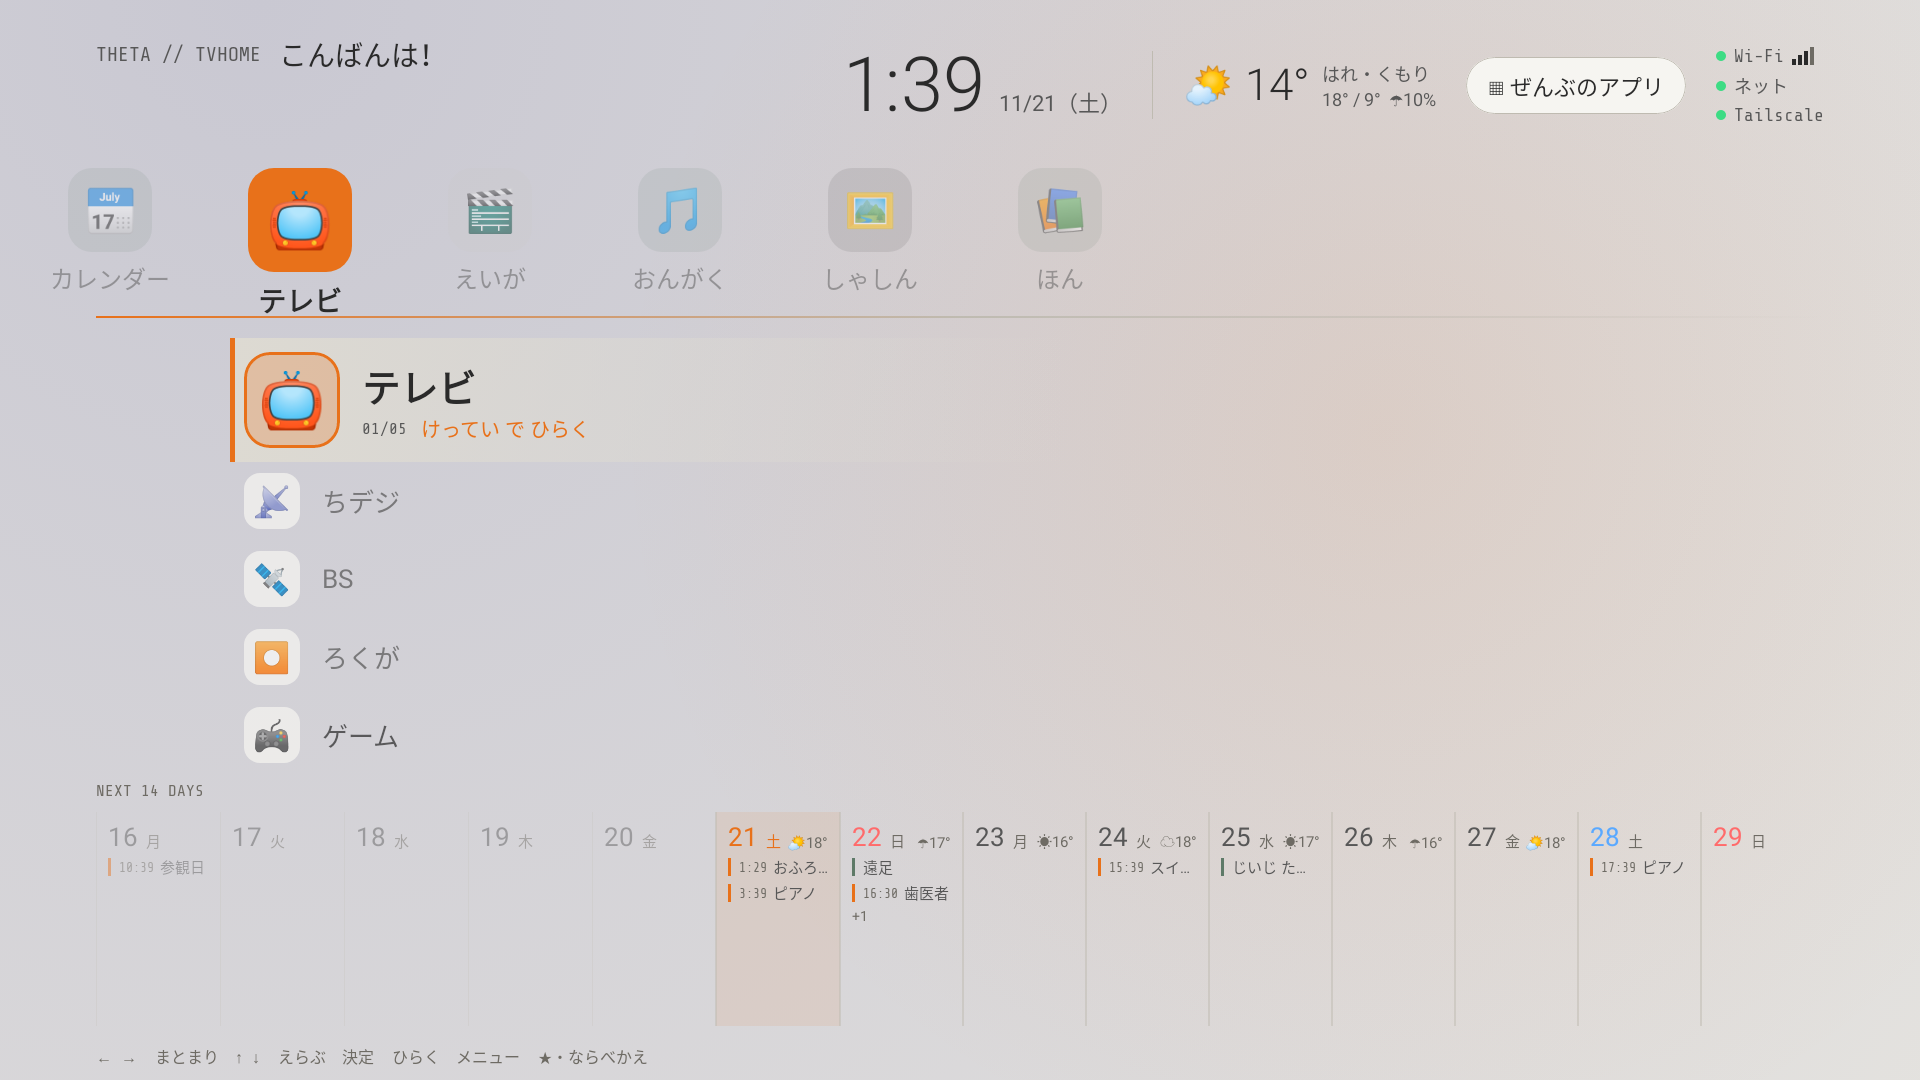
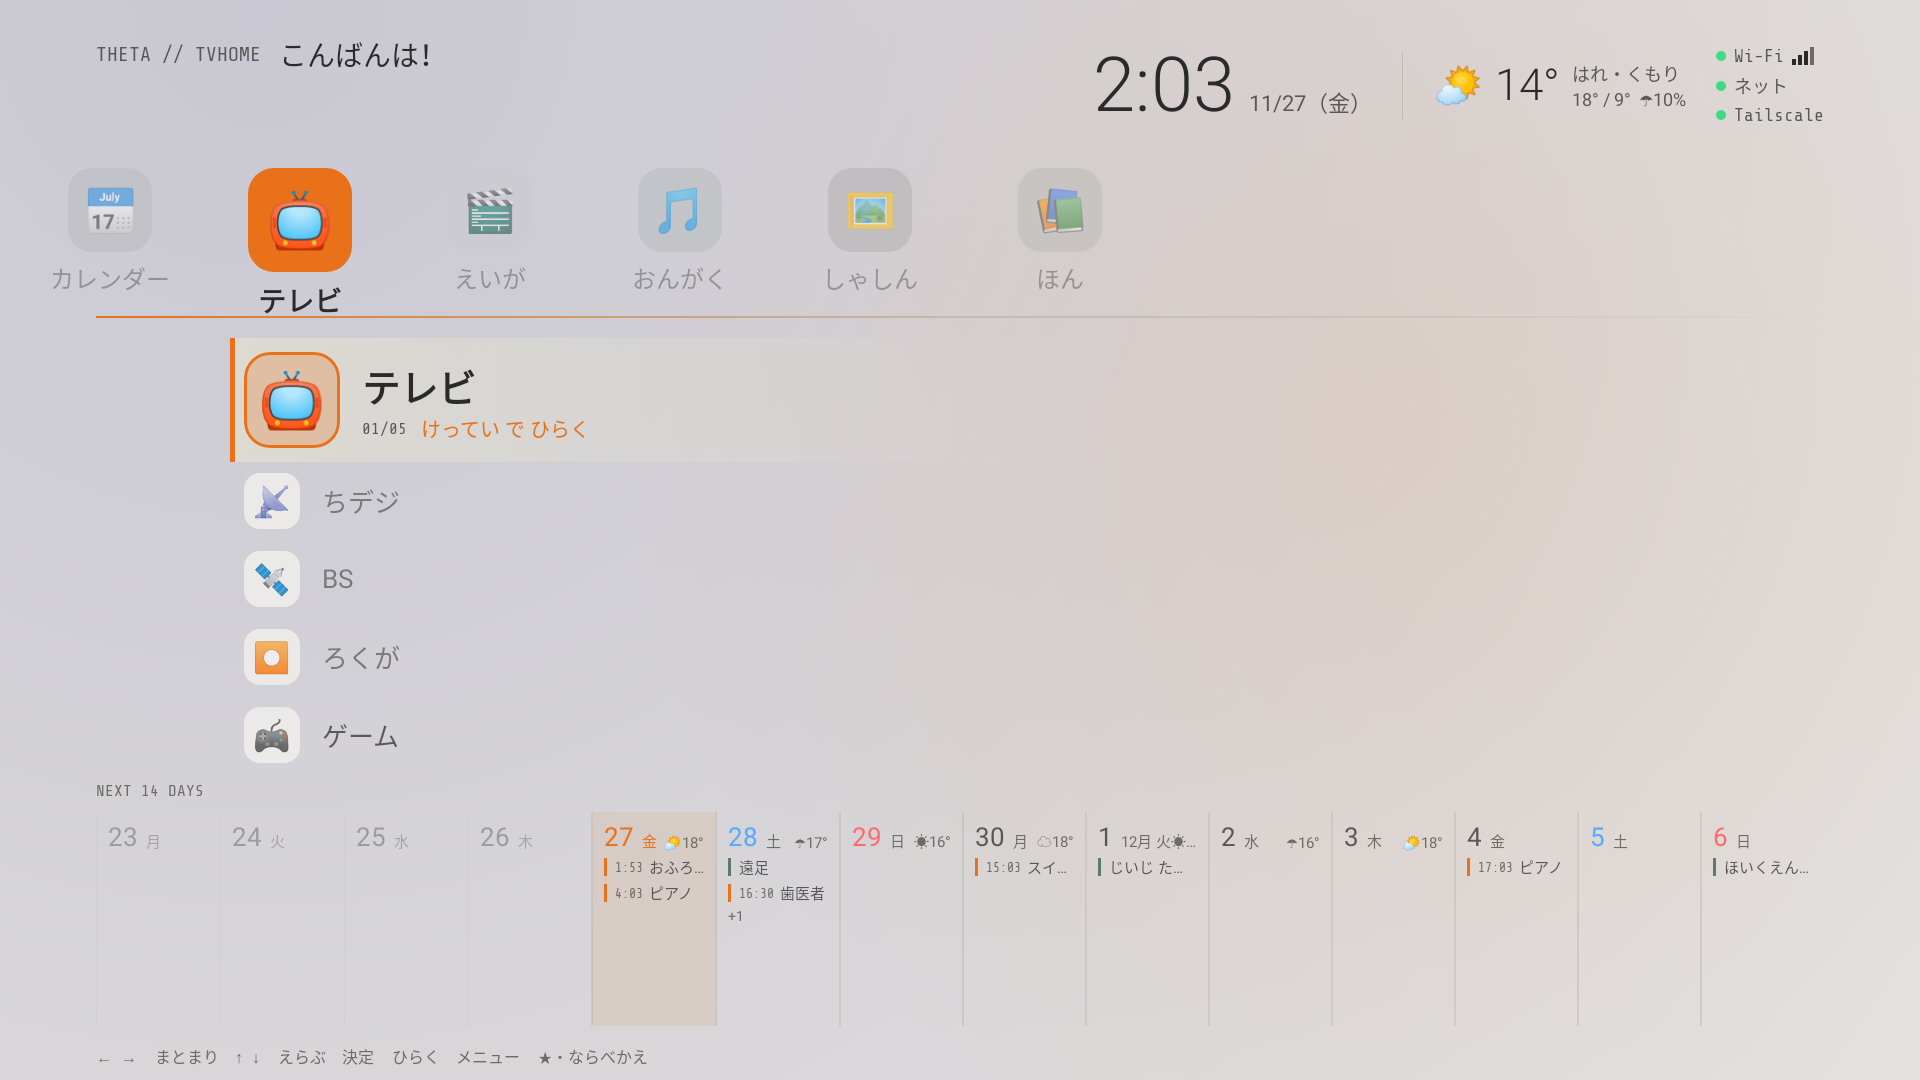
0.9.1：横の移動はクロスバーだけ（右上のぜんぶのアプリ・NAS の上のボタン列をやめ、アプリの下・メニューボタンへ）
Claude-Session: https://claude.ai/code/session_012DXkbyha4qRNRU1wCiPjQm

diff --git a/app/src/main/java/app/thetahatch/tvhome/ui/CrossBar.kt b/app/src/main/java/app/thetahatch/tvhome/ui/CrossBar.kt
@@ -99,9 +99,9 @@ private val DOW = listOf("月", "火", "水", "木", "金", "土", "日")
  * クロスバー（はじめの形）：
  * - 上端に横の帯（まとまり：カレンダー・テレビ・アプリ・せってい。左右はループ）、選んだまとまりの中身はその下に縦
  * - 下にさりげなく 2 週間の帯（月曜はじまり・てんき・よてい）。カレンダーを選ぶと 4 週の表に広がり、↓ で日にちを選べる
- * - 左上：いま再生中のもの（無ければ名前とあいさつ）。右上：時計・てんき・ぜんぶのアプリ・ネット
+ * - 左上：いま再生中のもの（無ければ名前とあいさつ）。右上：時計・てんき・ネット（見るだけ。フォーカスは移らない）
  * - 操作しないと 5 秒で薄く、25 秒でメニューが消える（いちばん上で「戻る」でもすぐ消える）。なにかキーで戻る（そのキーは出すだけ）
- * 操作：←→ まとまり、↑↓ えらぶ、決定 ひらく、長押し・メニュー 操作。中身のいちばん上で ↑ → 右上の「ぜんぶのアプリ」
+ * 操作：←→ まとまり、↑↓ えらぶ、決定 ひらく、長押し・メニュー 操作。ぜんぶのアプリは「アプリ」のいちばん下
  */
 @Composable
 fun CrossBarLayout(app: TvHomeApp, firstFocus: FocusRequester, go: (String) -> Unit, menu: (TileMenu) -> Unit, guarded: (() -> Unit) -> Unit) {
@@ -124,13 +124,12 @@ fun CrossBarLayout(app: TvHomeApp, firstFocus: FocusRequester, go: (String) -> U
         buildCategories(app, apps, entries, updates, go, menu, guarded, withAll = false,
             nas = mapOf(Kind.VIDEO to sv, Kind.MUSIC to sm, Kind.PHOTO to sp, Kind.BOOK to sb))
     }
-    val cats = remember(base) { listOf(Category("cal", "カレンダー", "📅", emptyList())) + base.map { if (it.key == "fav") it.copy(label = "アプリ", icon = "⭐") else it } }
+    val cats = remember(base) { listOf(Category("cal", "カレンダー", "📅", emptyList())) + base.map { if (it.key == "fav") it.copy(label = "アプリ", icon = "⭐", items = it.items + Item("all-apps", "ぜんぶのアプリ", "▦", sub = "ホームに だす アプリを えらぶ", onClick = { guarded { go("apps") } })) else it } }
     val colors = listOf(p.accent2, p.accent, p.accent3, p.widget, p.launch)
 
     var cat by remember { mutableIntStateOf(1) }
     val pos = remember { mutableStateMapOf<String, Int>() }
     var inGrid by remember { mutableStateOf(false) }
-    var top by remember { mutableStateOf(false) } // 右上の「ぜんぶのアプリ」を選んでいる
     var longPressed by remember { mutableStateOf(false) }
     var lastKey by remember { mutableLongStateOf(System.currentTimeMillis()) }
     var idle by remember { mutableIntStateOf(0) }
@@ -163,7 +162,7 @@ fun CrossBarLayout(app: TvHomeApp, firstFocus: FocusRequester, go: (String) -> U
     fun move(dc: Int) {
         val n = cats.size
         cat = ((cat + dc) % n + n) % n
-        inGrid = false; top = false; weeks = 0; sel = todayIdx
+        inGrid = false; weeks = 0; sel = todayIdx
     }
 
     Box(
@@ -191,12 +190,6 @@ fun CrossBarLayout(app: TvHomeApp, firstFocus: FocusRequester, go: (String) -> U
                         }
                         true
                     }
-                    // 右上の「ぜんぶのアプリ」
-                    top -> {
-                        if (center && e.type == KeyEventType.KeyUp) { guarded { go("apps") }; true }
-                        else if (e.type == KeyEventType.KeyDown && (e.key == Key.DirectionDown || back)) { top = false; true }
-                        else e.type == KeyEventType.KeyDown && e.key != Key.Back
-                    }
                     e.type == KeyEventType.KeyDown && center -> {
                         if (e.nativeKeyEvent.repeatCount == 8 && !longPressed) { longPressed = true; current.items.getOrNull(idx)?.onMenu?.invoke() }
                         true
@@ -212,7 +205,8 @@ fun CrossBarLayout(app: TvHomeApp, firstFocus: FocusRequester, go: (String) -> U
                     e.type != KeyEventType.KeyDown -> false
                     e.key == Key.DirectionLeft -> { move(-1); true }
                     e.key == Key.DirectionRight -> { move(1); true }
-                    e.key == Key.DirectionUp -> { if (current.key == "cal" || idx == 0) top = true else pos[current.key] = idx - 1; true }
+                    // 上の段（時計など）には移らない（横の移動はクロスバーだけ）
+                    e.key == Key.DirectionUp -> { if (current.key != "cal" && idx > 0) pos[current.key] = idx - 1; true }
                     e.key == Key.DirectionDown -> { if (current.key == "cal") inGrid = true else pos[current.key] = (idx + 1).coerceAtMost((current.items.size - 1).coerceAtLeast(0)); true }
                     else -> false
                 }
@@ -231,7 +225,7 @@ fun CrossBarLayout(app: TvHomeApp, firstFocus: FocusRequester, go: (String) -> U
         }
 
         // ---- 右上：時計・てんき・ぜんぶのアプリ・ネット
-        TopRight(now, forecast, net, top, Modifier.align(Alignment.TopEnd).padding(top = 20.dp, end = SIDE), menuAlpha, idle == 2) { guarded { go("apps") } }
+        TopRight(now, forecast, net, Modifier.align(Alignment.TopEnd).padding(top = 20.dp, end = SIDE), idle == 2)
 
         // ---- 横の帯：まとまり（ループ）
         Box(Modifier.fillMaxWidth().alpha(menuAlpha)) {
@@ -248,7 +242,7 @@ fun CrossBarLayout(app: TvHomeApp, firstFocus: FocusRequester, go: (String) -> U
                 Column(
                     Modifier.offset(x = SEL_X - CAT_W / 2 + CAT_W * da, y = BAR_TOP).width(CAT_W)
                         .alpha(if (sel0) 1f else 0.5f)
-                        .clickable(remember { MutableInteractionSource() }, null) { cat = i; inGrid = false; top = false; lastKey = System.currentTimeMillis() },
+                        .clickable(remember { MutableInteractionSource() }, null) { cat = i; inGrid = false; lastKey = System.currentTimeMillis() },
                     horizontalAlignment = Alignment.CenterHorizontally,
                 ) {
                     val s = if (sel0) 52.dp else 42.dp
@@ -281,7 +275,7 @@ fun CrossBarLayout(app: TvHomeApp, firstFocus: FocusRequester, go: (String) -> U
                     }
                 }
                 if (current.items.isEmpty()) {
-                    T(if (current.key == "fav") "右上の「ぜんぶのアプリ」で えらんで「ホームに だす」" else "なし", size = 13.sp, color = p.muted)
+                    T(if (current.key == "fav") "「ぜんぶのアプリ」で えらんで「ホームに だす」" else "なし", size = 13.sp, color = p.muted)
                 }
             }
         }
@@ -357,7 +351,7 @@ private fun NowPlayingCard(pl: Playing) {
 }
 
 @Composable
-private fun TopRight(now: ZonedDateTime, forecast: Forecast?, net: NetInfo, allFocused: Boolean, modifier: Modifier, menuAlpha: Float, hidden: Boolean, openAll: () -> Unit) {
+private fun TopRight(now: ZonedDateTime, forecast: Forecast?, net: NetInfo, modifier: Modifier, hidden: Boolean) {
     val p = LocalPalette.current
     Row(modifier, verticalAlignment = Alignment.CenterVertically) {
         Row(verticalAlignment = Alignment.Bottom) {
@@ -379,15 +373,6 @@ private fun TopRight(now: ZonedDateTime, forecast: Forecast?, net: NetInfo, allF
                 f.days.firstOrNull()?.let { d -> T("%.0f° / %.0f°  ☂%d%%".format(d.max, d.min, d.rain), size = 9.sp, color = p.muted) }
             }
         }
-        // ぜんぶのアプリ（天気の右）。中身のいちばん上で ↑ で選べる
-        Spacer(Modifier.width(15.dp))
-        Box(
-            Modifier.alpha(if (hidden) 0f else menuAlpha).clip(RoundedCornerShape(16.dp))
-                .background(if (allFocused) p.accent else p.panel)
-                .border(if (allFocused) 0.dp else 0.5.dp, p.line, RoundedCornerShape(16.dp))
-                .clickable(remember { MutableInteractionSource() }, null, onClick = openAll)
-                .padding(horizontal = 11.dp, vertical = 6.dp),
-        ) { T("▦ ぜんぶのアプリ", size = 11.sp, color = if (allFocused) p.onAccent else p.fg, weight = FontWeight.Medium) }
         Spacer(Modifier.width(15.dp))
         Column(Modifier.alpha(if (hidden) 0f else 1f), verticalArrangement = Arrangement.spacedBy(3.dp)) {
             NetLine(net.kind != "none", when (net.kind) { "wifi" -> "Wi-Fi"; "ethernet" -> "LAN"; "none" -> "オフライン"; else -> net.kind }, if (net.kind == "wifi") net.bars else -1)

diff --git a/app/src/main/java/app/thetahatch/tvhome/ui/NasScreen.kt b/app/src/main/java/app/thetahatch/tvhome/ui/NasScreen.kt
@@ -29,6 +29,9 @@ import app.thetahatch.tvhome.data.NetStatus
 import app.thetahatch.tvhome.music.MusicLib
 import app.thetahatch.tvhome.nas.Kind
 import app.thetahatch.tvhome.nas.Names
+import androidx.compose.ui.input.key.onPreviewKeyEvent
+import androidx.compose.ui.input.key.key
+import androidx.compose.ui.input.key.type
 import app.thetahatch.tvhome.viewer.Pictures
 import androidx.compose.foundation.background
 import androidx.compose.foundation.layout.Box
@@ -97,7 +100,10 @@ fun NasScreen(app: TvHomeApp, view: app.thetahatch.tvhome.HomeState.NasView) {
     var indexVersion by remember { mutableStateOf(0) }
     LaunchedEffect(mode, kind) { if (mode != "browse") st.ensureIndex(kind) { indexVersion++ } }
     LaunchedEffect(mode, query, indexVersion) { if (mode != "browse") { delay(150); runCatching { first.requestFocus() } } }
-    LaunchedEffect(mode) { if (mode == "search" && query.isBlank()) asking = true }
+    LaunchedEffect(mode) {
+        if (mode == "search" && query.isBlank()) asking = true
+        if (mode == "voice") { mode = "search"; if (canVoice) runCatching { voice.launch(voiceIntent) } else { app.toast("このテレビには こえの入力が ありません"); asking = true } }
+    }
 
     androidx.activity.compose.BackHandler(enabled = stack.size > 1 || (stack.isNotEmpty() && mode != "browse")) {
         stack = stack.dropLast(1)
@@ -152,11 +158,26 @@ fun NasScreen(app: TvHomeApp, view: app.thetahatch.tvhome.HomeState.NasView) {
     }
     fun enter(e: NasEntry) { if (e.dir) stack = stack + e.path else open(e) }
 
+    fun menuActions(): List<Pair<String, () -> Unit>> = buildList {
+        add("🔍 さがす" to { asking = true })
+        if (canVoice) add("🎤 こえで さがす" to { runCatching { voice.launch(voiceIntent) } })
+        add("🆕 さいきん ついか" to { stack = emptyList(); mode = "recent" })
+        if (mode != "browse" || stack.size > 1) add("📁 ぜんぶ（いちばん上）" to { mode = "browse"; stack = listOf(root) })
+        if (mode != "browse") add("⟳ しらべなおす" to { st.ensureIndex(kind, force = true) { indexVersion++ } })
+        if (kind == Kind.MUSIC && items.isNotEmpty() && path != null) add("▶ ぜんぶ さいせい" to { open(items.first()) })
+        if (kind == Kind.MUSIC) add("⏯ いちじていし／さいかい" to { scope.launch { runCatching { st.music.toggle() } } })
+        if (kind == Kind.PHOTO && items.isNotEmpty() && path != null) add("▶ スライドショー" to { open(items.first()) })
+    }
+
+    var menuOpen by remember { mutableStateOf(false) }
+    if (menuOpen) { MenuOverlay(TileMenu(kind.label, menuActions())) { menuOpen = false }; return }
     val tiles = kind != Kind.BOOK
     val (tw, th) = when (kind) { Kind.VIDEO -> 132.dp to 196.dp; Kind.MUSIC -> 150.dp to 186.dp; else -> 176.dp to 150.dp }
     androidx.compose.foundation.lazy.grid.LazyVerticalGrid(
         if (tiles) androidx.compose.foundation.lazy.grid.GridCells.Adaptive(tw) else androidx.compose.foundation.lazy.grid.GridCells.Fixed(1),
-        Modifier.fillMaxSize(),
+        Modifier.fillMaxSize().onPreviewKeyEvent { ev ->
+            if (ev.key == androidx.compose.ui.input.key.Key.Menu && ev.type == androidx.compose.ui.input.key.KeyEventType.KeyUp) { menuOpen = true; true } else false
+        },
         contentPadding = PaddingValues(horizontal = 64.dp, vertical = 24.dp),
         horizontalArrangement = androidx.compose.foundation.layout.Arrangement.spacedBy(16.dp),
         verticalArrangement = androidx.compose.foundation.layout.Arrangement.spacedBy(if (tiles) 16.dp else 0.dp),
@@ -172,16 +193,8 @@ fun NasScreen(app: TvHomeApp, view: app.thetahatch.tvhome.HomeState.NasView) {
             }
         }
         item(span = { androidx.compose.foundation.lazy.grid.GridItemSpan(maxLineSpan) }) {
-            Row(horizontalArrangement = androidx.compose.foundation.layout.Arrangement.spacedBy(10.dp), modifier = Modifier.padding(bottom = 8.dp)) {
-                Chip("🔍 さがす") { asking = true }
-                if (canVoice) Chip("🎤 こえで") { runCatching { voice.launch(voiceIntent) } }
-                Chip("🆕 さいきん") { stack = emptyList(); mode = "recent" }
-                if (mode != "browse" || stack.size > 1) Chip("📁 ぜんぶ") { mode = "browse"; stack = listOf(root) }
-                if (mode != "browse") Chip("⟳ しらべなおす") { st.ensureIndex(kind, force = true) { indexVersion++ } }
-                if (kind == Kind.MUSIC && items.isNotEmpty() && path != null) Chip("▶ ぜんぶ さいせい") { open(items.first()) }
-                if (kind == Kind.MUSIC) Chip("⏯") { scope.launch { runCatching { st.music.toggle() } } }
-                if (kind == Kind.PHOTO && items.isNotEmpty() && path != null) Chip("▶ スライドショー") { open(items.first()) }
-            }
+            // 操作は見るだけの案内（上の段にフォーカスは移さない。ほかの操作はメニューボタン）
+            T("メニュー：" + menuActions().joinToString("・") { it.first }, Modifier.padding(bottom = 8.dp), size = 12.sp, color = p.muted)
         }
         error?.let { e -> item(span = { androidx.compose.foundation.lazy.grid.GridItemSpan(maxLineSpan) }) { NasTrouble(app, e) { tick++ } } }
         if (path != null && entries == null && error == null) item(span = { androidx.compose.foundation.lazy.grid.GridItemSpan(maxLineSpan) }) { T("よみこみ中…", size = 18.sp, color = p.muted) }
@@ -210,11 +223,6 @@ private fun label(kind: Kind, name: String, dir: Boolean): String = when {
     kind == Kind.VIDEO -> Names.episode(name)
     dir -> kind.shelfName(name)
     else -> kind.title(name)
-}
-
-@Composable
-private fun Chip(text: String, onClick: () -> Unit) {
-    Focusable(Modifier, onClick, scaleTo = 1.05f) { Box(Modifier.padding(horizontal = 14.dp, vertical = 8.dp)) { T(text, size = 16.sp) } }
 }
 
 /** 絵の並びの 1 つ：えいがの作品はポスター、おんがくのアルバムはジャケット、しゃしんは縮小版。無ければ絵文字。 */

diff --git a/app/src/main/java/app/thetahatch/tvhome/ui/Items.kt b/app/src/main/java/app/thetahatch/tvhome/ui/Items.kt
@@ -65,7 +65,8 @@ fun buildCategories(
             val last = s.last(k.key)
             if (last.isNotBlank()) add(Item(k.key + "-last", "つづきから", "⏯", sub = k.shelfName(last.trimEnd('/').substringAfterLast('/')), onClick = { app.state.openNas(k, last); go("nas") }))
             add(Item(k.key + "-recent", "さいきん ついか", "🆕", sub = "NAS に あたらしく 入った もの", onClick = { app.state.openNas(k, "", "recent"); go("nas") }))
-            add(Item(k.key + "-search", "さがす", "🔍", sub = "なまえで さがす（もじ・こえ）", onClick = { app.state.openNas(k, "", "search"); go("nas") }))
+            add(Item(k.key + "-search", "さがす", "🔍", sub = "なまえで さがす（もじ）", onClick = { app.state.openNas(k, "", "search"); go("nas") }))
+            add(Item(k.key + "-voice", "こえで さがす", "🎤", sub = "リモコンの マイクで", onClick = { app.state.openNas(k, "", "voice"); go("nas") }))
             shelves.forEach { e -> add(Item(k.key + ":" + e.path, k.shelfName(e.name), k.icon, onClick = { app.state.openNas(k, e.path); go("nas") })) }
             add(Item(k.key + "-all", "ぜんぶの ${k.label}", k.icon, sub = app.state.root(k), onClick = { app.state.openNas(k, ""); go("nas") }))
         }

diff --git a/docs/release-notes/v0.9.1.md b/docs/release-notes/v0.9.1.md
@@ -1,0 +1,6 @@
+横の移動はクロスバーだけに（上の段にフォーカスが移らない）。
+
+- ホーム：右上の「ぜんぶのアプリ」をやめ、クロスバーの「アプリ」のいちばん下へ（「せってい」にもある）。右上の時計・てんき・ネットは見るだけ
+- 中身のいちばん上で ↑ を押しても、どこへも移らない
+- NAS の一覧：上のボタンの列をやめた。さがす・こえで さがす・さいきん ついか・ぜんぶ・しらべなおす・ぜんぶ さいせい・スライドショーは**メニューボタン**から（画面の上に案内だけ出す）
+- クロスバーの えいが・おんがく・しゃしん・ほんに「こえで さがす」を足した
